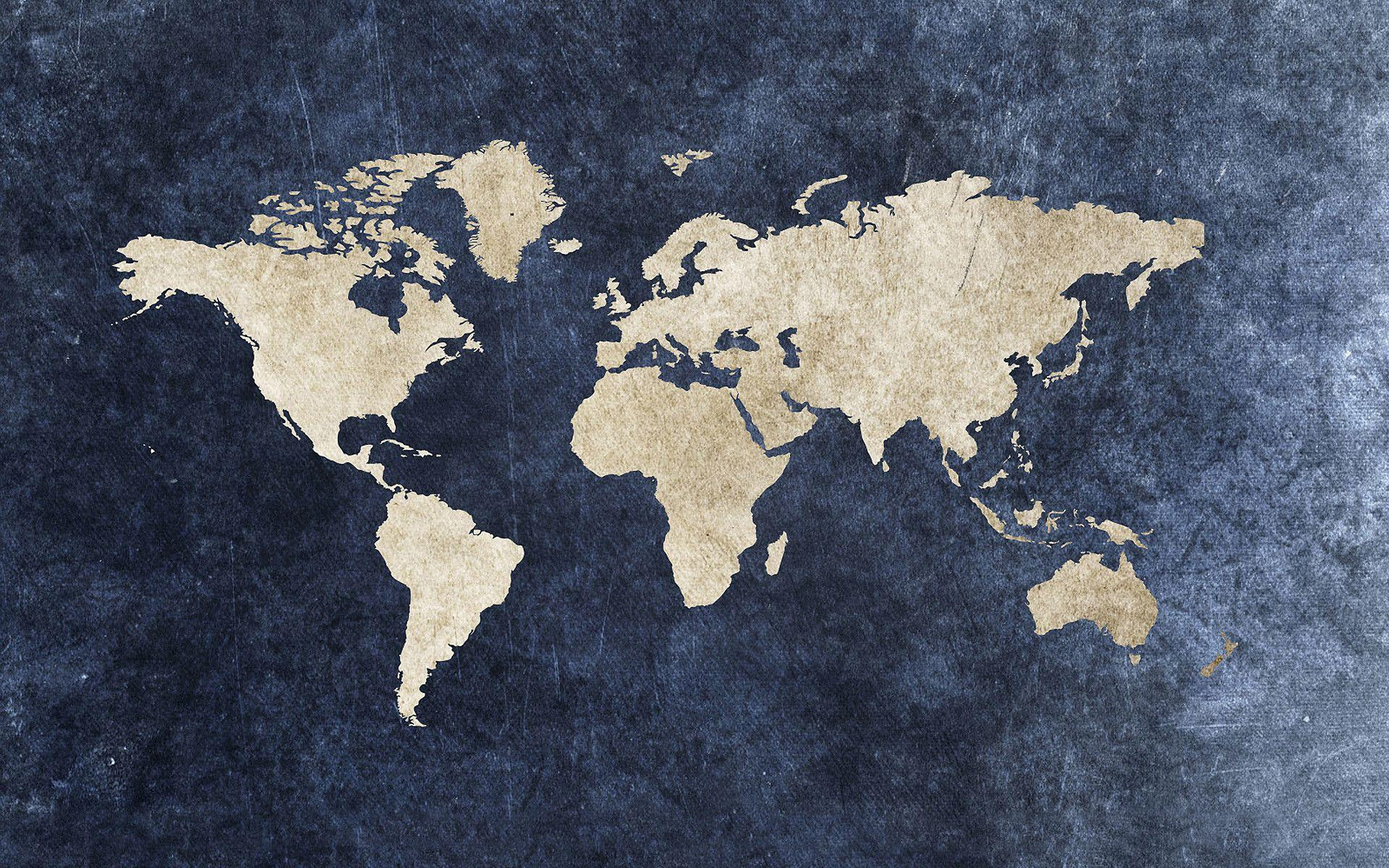
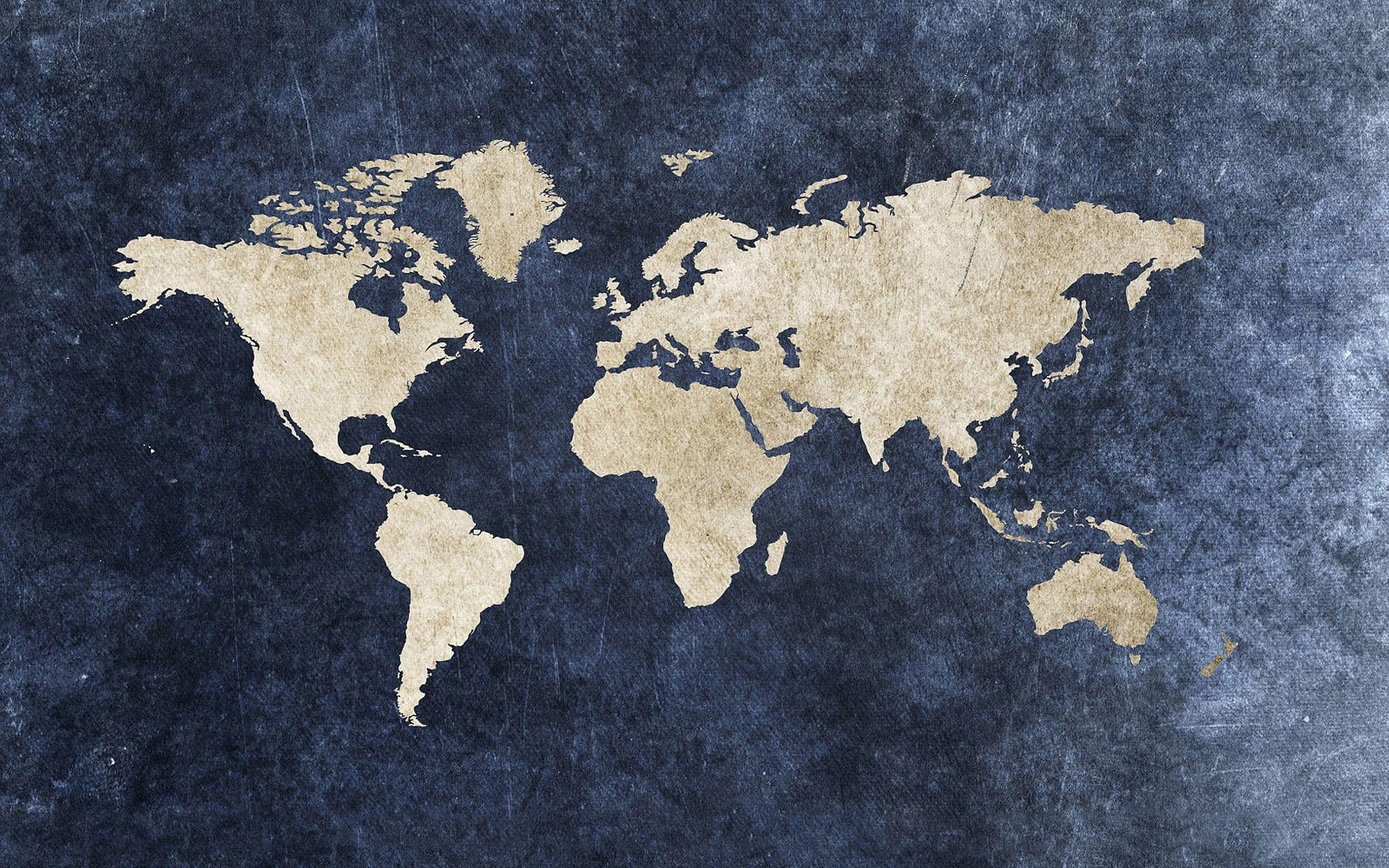
add minificate images

diff --git a/src/components/Footer/Footer.js b/src/components/Footer/Footer.js
@@ -7,36 +7,51 @@ import { ReactComponent as TelegramIcon } from '../../assets/img/icon/telegram.s
 import ScrollableAnchor from 'react-scrollable-anchor';
 import { contactsRoute } from '../../helpers/routes';
 
+import { Parallax } from 'react-parallax';
+import footerImageMobile from '../../assets/img/footer@0,5x.jpg';
+import footerImageTablet from '../../assets/img/footer@0,75x.jpg';
+import footerImageDesktop from '../../assets/img/footer.jpg';
+
+import { useWindowSize, chooseWallpaperSize } from '../../helpers/window-size';
+
 import styles from './Footer.module.css';
 
 export default function Footer() {
+    const [ width ] = useWindowSize();
+    const bgWallpaper = chooseWallpaperSize(width, footerImageMobile, footerImageTablet, footerImageDesktop)
     
-
     return (
-        <ScrollableAnchor id={contactsRoute}>
-            <footer className={styles.Footer}>
-                <h2 className={styles.title}>Contacts</h2>
-                <div className={styles.contacts__container}>
-                    <div className={styles.contacts__icon}>
-                        <a href="https://github.com/victorbtgn" className={styles.contacts__icon__link} target="_blank" rel="noopener noreferrer" >
-                            <GithubIcon className={styles.svg__icon} />
-                        </a>
-                    
-                        <a href="https://www.linkedin.com/in/victor-batigin" className={styles.contacts__icon__link} target="_blank" rel="noopener noreferrer" >
-                            <LinkedinIcon className={styles.svg__icon} />
-                        </a>
+        <Parallax
+        bgImage={bgWallpaper}
+        bgImageAlt="under water"
+        strength={500}
+        className={styles.footer__parallax}
+        >
+            <ScrollableAnchor id={contactsRoute}>
+                <footer className={styles.Footer}>
+                    <h2 className={styles.title}>Contacts</h2>
+                    <div className={styles.contacts__container}>
+                        <div className={styles.contacts__icon}>
+                            <a href="https://github.com/victorbtgn" className={styles.contacts__icon__link} target="_blank" rel="noopener noreferrer" >
+                                <GithubIcon className={styles.svg__icon} />
+                            </a>
+                        
+                            <a href="https://www.linkedin.com/in/victor-batigin" className={styles.contacts__icon__link} target="_blank" rel="noopener noreferrer" >
+                                <LinkedinIcon className={styles.svg__icon} />
+                            </a>
 
-                        <a href="https://t.me/victor_btgn" className={styles.contacts__icon__link} target="_blank" rel="noopener noreferrer" >
-                            <TelegramIcon className={styles.svg__icon} />
-                        </a>
-                    </div>
+                            <a href="https://t.me/victor_btgn" className={styles.contacts__icon__link} target="_blank" rel="noopener noreferrer" >
+                                <TelegramIcon className={styles.svg__icon} />
+                            </a>
+                        </div>
 
-                    <div className={styles.contacts__data}>
-                        <a href="tel:+380637813676" className={styles.contacts__data__phone} data-text="+38(063)7813676" >+38(063)7813676</a>
-                        <a href="mailto:victor.batigin@ukr.net" className={styles.contacts__data__email}>E-mail: victor.batigin@ukr.net</a>
+                        <div className={styles.contacts__data}>
+                            <a href="tel:+380637813676" className={styles.contacts__data__phone} data-text="+38(063)7813676" >+38(063)7813676</a>
+                            <a href="mailto:victor.batigin@ukr.net" className={styles.contacts__data__email}>E-mail: victor.batigin@ukr.net</a>
+                        </div>
                     </div>
-                </div>
-            </footer>
-        </ScrollableAnchor>
+                </footer>
+            </ScrollableAnchor>
+        </Parallax>
     )
 }

diff --git a/src/components/Resume/Resume.js b/src/components/Resume/Resume.js
@@ -3,9 +3,13 @@ import React from 'react';
 import ToggleContent from '../../common/ToggleContent';
 import Modal from '../../common/Modal';
 
+import certificateImageMin from '../../assets/img/resume/Viktor Batyhin_fs_6168_Certificate@0,25x.jpg';
+import appendixImage1Min from '../../assets/img/resume/Viktor Batyhin_fs_6168_Appendix_01@0,25x.jpg';
+import appendixImage2Min from '../../assets/img/resume/Viktor Batyhin_fs_6168_Appendix_02@0,25x.jpg';
 import certificateImage from '../../assets/img/resume/Viktor Batyhin_fs_6168_Certificate.jpg';
 import appendixImage1 from '../../assets/img/resume/Viktor Batyhin_fs_6168_Appendix_01.jpg';
 import appendixImage2 from '../../assets/img/resume/Viktor Batyhin_fs_6168_Appendix_02.jpg';
+import summaryImageMin from '../../assets/img/resume/summary@0,25x.jpg';
 import summaryImage from '../../assets/img/resume/summary.jpg';
 import summaryPDF from '../../assets/img/resume/summary.pdf';
 
@@ -23,7 +27,7 @@ export default function Resume() {
                 <h3 className={styles.title}>Resume</h3>
 
                 <div className={styles.summary__container}>
-                <img src={summaryImage} className={styles.img__summary} alt="summary" />
+                <img src={summaryImageMin} className={styles.img__summary} alt="summary" />
                 <div className={styles.summary__overlay}>
                     <ToggleContent
                         toggle={show => 
@@ -44,7 +48,7 @@ export default function Resume() {
                 <div className={styles.certificate_container}>
                         <ToggleContent
                             toggle={show =>
-                                    <img src={certificateImage} onClick={show} className={styles.img} alt="certificate" />
+                                    <img src={certificateImageMin} onClick={show} className={styles.img} alt="certificate" />
                             }
                             content={hide => (
                                 <Modal onClose={hide}>
@@ -55,7 +59,7 @@ export default function Resume() {
                         
                         <ToggleContent
                             toggle={show =>
-                                    <img src={appendixImage1} onClick={show} className={styles.img} alt="certificate" />
+                                    <img src={appendixImage1Min} onClick={show} className={styles.img} alt="certificate" />
                             }
                             content={hide => (
                                 <Modal onClose={hide}>
@@ -66,7 +70,7 @@ export default function Resume() {
                         
                         <ToggleContent
                             toggle={show =>
-                                    <img src={appendixImage2} onClick={show} className={styles.img} alt="certificate" />
+                                    <img src={appendixImage2Min} onClick={show} className={styles.img} alt="certificate" />
                             }
                             content={hide => (
                                 <Modal onClose={hide}>

diff --git a/src/components/Navigation/NavBar.js b/src/components/Navigation/NavBar.js
@@ -11,22 +11,25 @@ import styles from './NavBar.module.css';
 
 export default function NavBar({ isVisible, mobile }) {
     return (
-        <ul className={mobile ? (isVisible ? styles.NavBar : styles.close__NavBar) : styles.NavBar}>
-            <li className={styles.list__item}>
-                <a href={`#${aboutRoute}`} className={styles.link}>About me</a>
-            </li>
+        <>
+            <div className={styles.navbar__overlay}></div>
+            <ul className={mobile ? (isVisible ? styles.NavBar : styles.close__NavBar) : styles.NavBar}>
+                <li className={styles.list__item}>
+                    <a href={`#${aboutRoute}`} className={styles.link}>About me</a>
+                </li>
 
-            <li className={styles.list__item}>
-                <a href={`#${projectsRoute}`} className={styles.link}>Projects</a>
-            </li>
+                <li className={styles.list__item}>
+                    <a href={`#${projectsRoute}`} className={styles.link}>Projects</a>
+                </li>
 
-            <li className={styles.list__item}>
-                <a href={`#${summaryRoute}`} className={styles.link}>Summary</a>
-            </li>
+                <li className={styles.list__item}>
+                    <a href={`#${summaryRoute}`} className={styles.link}>Summary</a>
+                </li>
 
-            <li className={styles.list__item}>
-                <a href={`#${contactsRoute}`} className={styles.link}>Contacts</a>
-            </li>
-        </ul>
+                <li className={styles.list__item}>
+                    <a href={`#${contactsRoute}`} className={styles.link}>Contacts</a>
+                </li>
+            </ul>
+            </>
     );
 };

diff --git a/src/components/Projects/Projects.js b/src/components/Projects/Projects.js
@@ -7,18 +7,24 @@ import ScrollableAnchor from 'react-scrollable-anchor';
 import { projectsRoute } from '../../helpers/routes';
 
 import { Parallax } from 'react-parallax';
-import projectsImage from '../../assets/img/projects.jpg';
+import projectsImageMobile from '../../assets/img/projects@0,5x.jpg';
+import projectsImageTablet from '../../assets/img/projects@0,75x.jpg';
+import projectsImageDesktop from '../../assets/img/projects.jpg';
+
+import { useWindowSize, chooseWallpaperSize } from '../../helpers/window-size';
 
 import styles from './Projects.module.css';
 
 export default function Projects() {
-    
+    const [ width ] = useWindowSize();
+    const bgWallpaper = chooseWallpaperSize(width, projectsImageMobile, projectsImageTablet, projectsImageDesktop)
 
     return (
         <Parallax
-        bgImage={projectsImage}
+        bgImage={bgWallpaper}
         bgImageAlt="world map"
         strength={500}
+        className={styles.projects__parallax}
         >
             <ScrollableAnchor id={projectsRoute}>
                 <section className={styles.Projects}>

diff --git a/src/components/Banner/Banner.module.css b/src/components/Banner/Banner.module.css
@@ -3,12 +3,19 @@
   opacity: 0;
 }
 .Banner {
+  height: 100vh;
+  background: url('../../assets/img/banner@0\,5x.jpg') center / cover;
+  transition: var(--primary-transition);
+  box-shadow: var(--primary-shadow);
+  animation: moveImage 200s linear infinite;
+}
+.banner__bg {
+  width: 100%;
+  height: 100%;
   display: flex;
   justify-content: center;
   align-items: center;
-  height: 120vh;
-  background: linear-gradient(#91b0d49f, #0424499f), url('../../assets/img/banner.jpg') no-repeat center / cover;
-  transition: var(--primary-transition);
+  background-color: var(--banner-overlay);
 }
 .container {
   text-align: center;
@@ -30,8 +37,23 @@
 }
 
 @media screen and (min-width: 768px) {
+  .Banner {
+    background: url('../../assets/img/banner@0\,75x.jpg') center / cover;
+  }
   .container {
     padding: 3em;
     border-radius: 5em;
+  }
+}
+
+@media screen and (min-width: 1280px) {
+  .Banner {
+    background: url('../../assets/img/banner.jpg') center / cover;
+  }
+}
+
+@keyframes moveImage {
+  100% {
+    background-position: 0px -3000px;
   }
 }

diff --git a/src/common/MenuBtn/MenuBtn.module.css b/src/common/MenuBtn/MenuBtn.module.css
@@ -12,7 +12,6 @@
   transition: var(--primary-transition);
 }
 .MenuBtn {
-  position: relative;
   width: 30px;
   height: 3px;
   background-color: var(--header-title-color);
@@ -22,8 +21,7 @@
 .MenuBtn::before,
 .MenuBtn::after {
   content: '';
-  position: absolute;
-  left: 0;
+  display: block;
   width: 30px;
   height: 3px;
   background-color: var(--header-title-color);
@@ -34,7 +32,7 @@
   transform: translateY(-10px);
 }
 .MenuBtn::after {
-  transform: translateY(10px);
+  transform: translateY(7px);
 }
 
 /* onClick */
@@ -44,8 +42,8 @@
   background: transparent;
 }
 .MenuBtn__container__active .MenuBtn::before {
-  transform: rotate(45deg) translate(35px, -35px);
+  transform: rotate(45deg) translate(37px, -35px);
 }
 .MenuBtn__container__active .MenuBtn::after {
-  transform: rotate(-45deg) translate(35px, 35px);
+  transform: rotate(-45deg) translate(37px, 35px);
 }

diff --git a/src/components/Banner/Banner.js b/src/components/Banner/Banner.js
@@ -9,9 +9,11 @@ export default function Banner({scroll}) {
     return (
         <ScrollableAnchor id={bannerRoute} >
             <section className={scroll ? styles.Banner : styles.cleanBanner}>
-                <div className={styles.container}>
-                    <h2 className={styles.title}>Viktor Batyhin</h2>
-                    <span className={styles.subTitle}>Front-end Developer</span>
+                <div className={styles.banner__bg}>
+                    <div className={styles.container}>
+                        <h2 className={styles.title}>Viktor Batyhin</h2>
+                        <span className={styles.subTitle}>Front-end Developer</span>
+                    </div>
                 </div>
             </section>
         </ScrollableAnchor>

diff --git a/src/App.js b/src/App.js
@@ -9,10 +9,8 @@ import Resume from './components/Resume';
 import Footer from './components/Footer';
 
 import { configureAnchors  } from 'react-scrollable-anchor';
-// import { Parallax } from 'react-parallax';
 
 import styles from './assets/styles/App.module.css';
-// import projectsImage from './assets/img/projects.jpg';
 
 const App = () => {
   // anchor configure
@@ -36,13 +34,7 @@ const App = () => {
     <MainLayout>
       <Banner scroll={scroll} />
       <About />
-      {/* <Parallax
-        bgImage={projectsImage}
-        bgImageAlt="world map"
-        strength={500}
-      > */}
-        <Projects />
-      {/* </Parallax> */}
+      <Projects />
       <Resume />
       <Footer />
     </MainLayout>

diff --git a/src/helpers/window-size.js b/src/helpers/window-size.js
@@ -1,0 +1,21 @@
+import { useLayoutEffect, useState } from 'react';
+
+export const useWindowSize = () => {
+    const [size, setSize] = useState([0, 0]);
+    useLayoutEffect(() => {
+        function updateSize() {
+            setSize([window.innerWidth, window.innerHeight]);
+        };
+        window.addEventListener('resize', updateSize);
+        updateSize();
+        return () => window.removeEventListener('resize', updateSize);
+    }, [])
+    return size;
+};
+
+export function chooseWallpaperSize (screenWidth, mobile, tablet, desktop) {
+    const width = screenWidth;
+    if(width <= 768) return mobile;
+    if(width <= 1280) return tablet;
+    return desktop;
+}

diff --git a/src/components/AppBar/AppBar.module.css b/src/components/AppBar/AppBar.module.css
@@ -1,7 +1,19 @@
 .AppBar {
   position: fixed;
   width: 100%;
-  background: var(--appbar-linear-gradient), url('../../assets/img/wallpaper.jpg') no-repeat center/cover fixed;
+  background: var(--appbar-linear-gradient), url('../../assets/img/wallpaper@0\,5x.jpg') no-repeat center/cover fixed;
   box-shadow: var(--primary-shadow);
   z-index: 100;
+}
+
+@media screen and (min-width: 768px) {
+  .AppBar {
+    background: var(--appbar-linear-gradient), url('../../assets/img/wallpaper@0\,75x.jpg');
+  }
+}
+
+@media screen and (min-width: 1280px) {
+  .AppBar {
+    background: var(--appbar-linear-gradient), url('../../assets/img/wallpaper.jpg');
+  }
 }

diff --git a/src/assets/styles/variables.css b/src/assets/styles/variables.css
@@ -5,6 +5,7 @@
   --blue: #00146e;
   --primary-font-color: #333333;
   --dark-overlay: #090c1ac5;
+  --banner-overlay: #99967a63;
   --header-title-color: #ffffffa2;
   --list-item-bg: #031027ea;
   /* Shadows */
@@ -13,6 +14,8 @@
   --primary-shadow: 0px 1px 15px 5px #00162786;
   /* Linear-gradients */
   --appbar-linear-gradient: linear-gradient(#ffffff77, #93a2e49a);
+  --banner-linear-gradient: linear-gradient(#91b0d49f, #0424499f);
+  --projects-linear-gradient: linear-gradient(#ffffff88, #588cec5e);
   --footer-linear-gradient: linear-gradient(#4465a3c0, #2451a5c0);
   /* transitions */
   --primary-transition: all 0.4s ease-in-out;

diff --git a/src/helpers/projects.js b/src/helpers/projects.js
@@ -1,7 +1,7 @@
-import weatherAppImage from '../assets/img/projects/weather-app.png';
-import phonebookImage from '../assets/img/projects/phonebook.png';
-import movieAppImage from '../assets/img/projects/movie-app.png';
-import imagesImage from '../assets/img/projects/images.png';
+import weatherAppImage from '../assets/img/projects/weather-app.jpg';
+import phonebookImage from '../assets/img/projects/phonebook.jpg';
+import movieAppImage from '../assets/img/projects/movie-app.jpg';
+import imagesImage from '../assets/img/projects/images.jpg';
 
 export default [
     {
